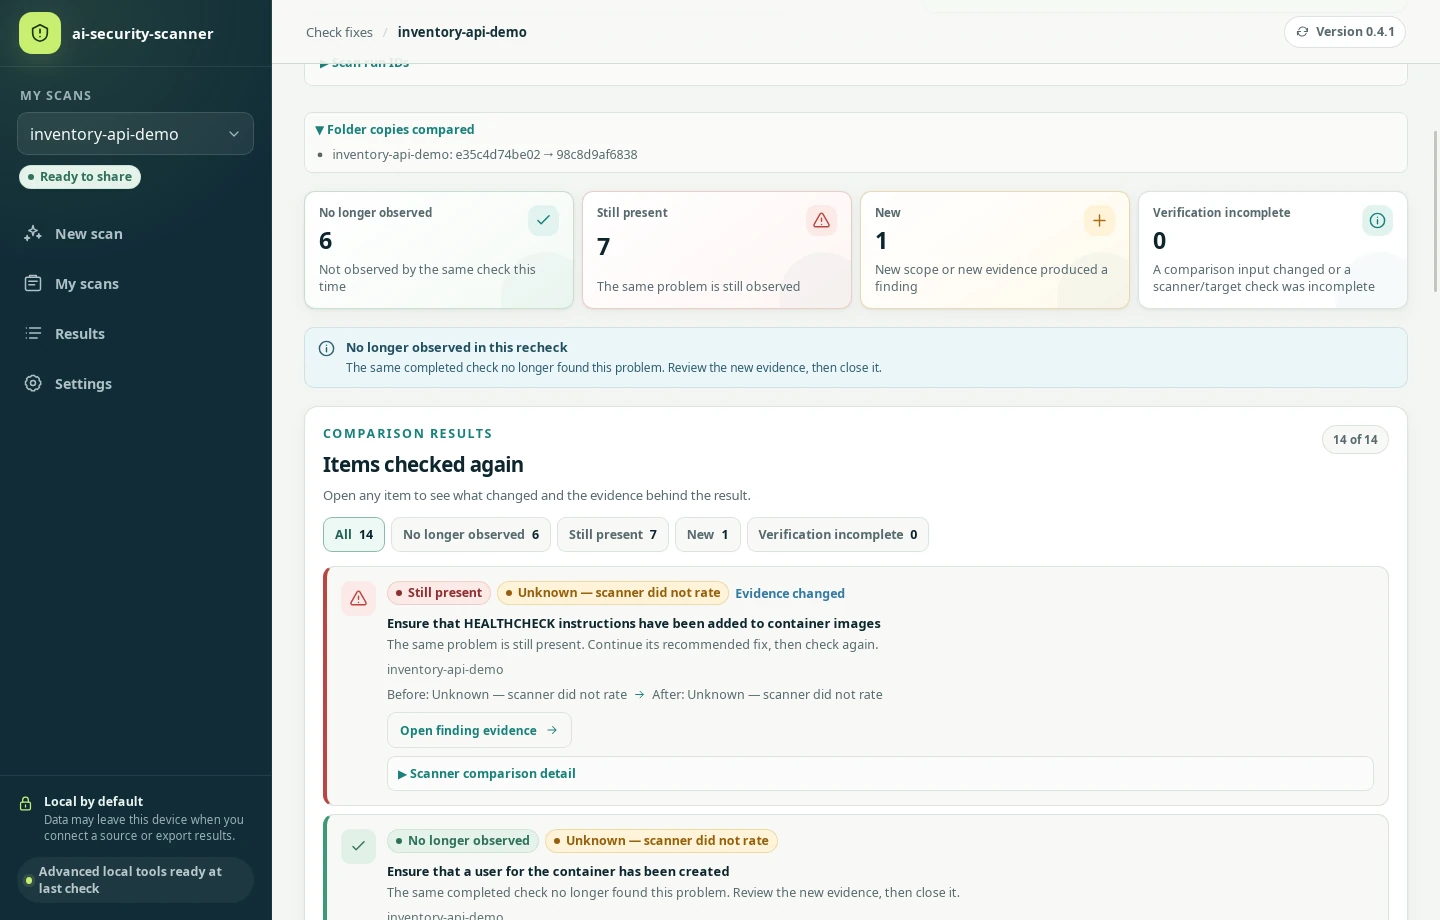
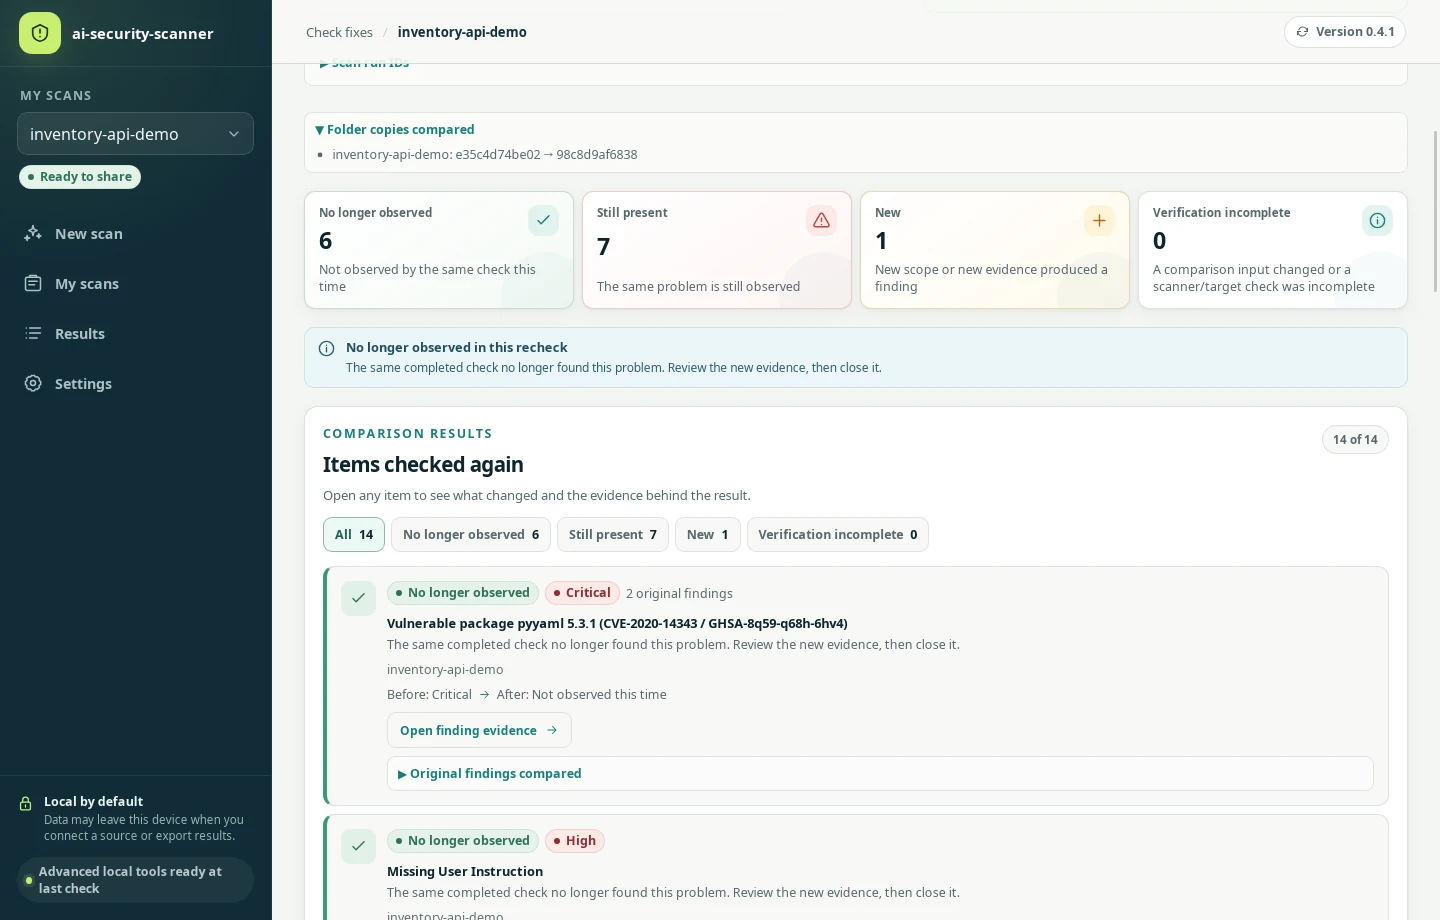
Retake the real scan example's comparison screenshots
The comparison list now follows Results order, so its first card is the
Critical pyyaml problem instead of an Unknown one. The version note,
footer and demo READMEs name dff42c2 for these two screenshots, and
SHA256SUMS.txt lists their new hashes.

Changed region(s): [[0.2188, 0.6087, 0.625, 0.8522], [0.2812, 0.8826, 0.5625, 0.9739], [0.2812, 0.8217, 0.4062, 0.8522]]

diff --git a/docs/check-fixes-demo.html b/docs/check-fixes-demo.html
@@ -61,7 +61,7 @@
           <li><strong>1</strong><span class="lang-en">New</span><span class="lang-zh" lang="zh-Hant">新出現</span></li>
           <li><strong>0</strong><span class="lang-en">Verification incomplete</span><span class="lang-zh" lang="zh-Hant">驗證未完成</span></li>
         </ul>
-        <p class="version-note"><span class="lang-en">Made with development builds after v0.4.1: the scans with commit <code>bca90a8</code>, the reports and screenshots with <code>e663b0a</code>. v0.4.1 does not have step 4, choosing the fixed folder again (it scans the copy saved when the folder was first chosen), the comparison at the top of the Scan 2 report, or problems that combine related findings: it lists every finding on its own.</span><span class="lang-zh" lang="zh-Hant">使用 v0.4.1 之後的開發版本製作：掃描使用 commit <code>bca90a8</code>，報告與截圖使用 <code>e663b0a</code>。v0.4.1 沒有第 4 步「重新選擇修正後的資料夾」（它掃描的是第一次選擇資料夾時保存的副本），沒有第 2 次掃描報告開頭的比較，也不會把相關的發現合併成一個問題，而是逐筆列出。</span></p>
+        <p class="version-note"><span class="lang-en">Made with development builds after v0.4.1: the scans with commit <code>bca90a8</code>, the comparison screenshot with <code>dff42c2</code>, and the reports and other screenshots with <code>e663b0a</code>. v0.4.1 does not have step 4, choosing the fixed folder again (it scans the copy saved when the folder was first chosen), the comparison at the top of the Scan 2 report, or problems that combine related findings: it lists every finding on its own.</span><span class="lang-zh" lang="zh-Hant">使用 v0.4.1 之後的開發版本製作：掃描使用 commit <code>bca90a8</code>，比較結果截圖使用 <code>dff42c2</code>，報告與其他截圖使用 <code>e663b0a</code>。v0.4.1 沒有第 4 步「重新選擇修正後的資料夾」（它掃描的是第一次選擇資料夾時保存的副本），沒有第 2 次掃描報告開頭的比較，也不會把相關的發現合併成一個問題，而是逐筆列出。</span></p>
       </section>
 
       <section class="section demo-step" id="project">
@@ -232,7 +232,7 @@
 
     <footer class="site-footer">
       <div class="footer-inner">
-        <p><span class="lang-en">ai-security-scanner · development builds bca90a8 and e663b0a · 2026-10-07</span><span class="lang-zh" lang="zh-Hant">ai-security-scanner · 開發版本 bca90a8 與 e663b0a · 2026-10-07</span></p>
+        <p><span class="lang-en">ai-security-scanner · development builds bca90a8, e663b0a and dff42c2 · 2026-10-07</span><span class="lang-zh" lang="zh-Hant">ai-security-scanner · 開發版本 bca90a8、e663b0a 與 dff42c2 · 2026-10-07</span></p>
         <p><a href="index.html" data-href-en="index.html" data-href-zh="index.html?lang=zh-TW"><span class="lang-en">Back to the project</span><span class="lang-zh" lang="zh-Hant">回到專案首頁</span></a></p>
       </div>
     </footer>

diff --git a/docs/demos/check-fixes/README.md b/docs/demos/check-fixes/README.md
@@ -18,7 +18,7 @@ The reports show related findings as one problem; for example, five tools' detec
 - **Scan times:** Scan 1 ran from 01:11:59 to 01:24:36 UTC, Scan 2 from 01:26:25 to 01:38:04 UTC, on October 7, 2026. The screenshots show the test computer's local time (UTC−4), the evening of October 6.
 - **Project:** a small Flask service written for this demo, with five planted problems. The fix commit removed the deploy key, switched to `yaml.safe_load`, upgraded PyYAML from 5.3.1 to 6.0.2, ran the container as a non-root user and turned on Flask debug mode on purpose. The project is not published, because it contains the planted private key. That key was created for this demo and never used anywhere.
 - **Reports:** saved with the app's HTML exporter and the `standard` redaction profile (**Hide sensitive identifiers**), using commit [`e663b0a`](https://github.com/teddashh/ai-security-scanner/commit/e663b0a). The files are unchanged exports; [SHA256SUMS.txt](SHA256SUMS.txt) lists their hashes.
-- **Screenshots:** taken from the app window, built from commit `e663b0a`, after both scans had finished; then cropped and converted to WebP. Nothing else was edited.
+- **Screenshots:** taken from the app window, built from commit `e663b0a` (the comparison screenshot from `dff42c2`), after both scans had finished; then cropped and converted to WebP. Nothing else was edited.
 
 ## Not covered
 

diff --git a/docs/demos/check-fixes/README.zh-TW.md b/docs/demos/check-fixes/README.zh-TW.md
@@ -18,7 +18,7 @@
 - **掃描時間：** 2026 年 10 月 7 日，第 1 次 01:11:59 至 01:24:36 UTC，第 2 次 01:26:25 至 01:38:04 UTC。截圖顯示的是測試電腦的當地時間（UTC−4），也就是 10 月 6 日晚上。
 - **專案：** 為這次示範寫的小型 Flask 服務，刻意放入五種問題。修正的 commit 刪除部署金鑰、改用 `yaml.safe_load`、把 PyYAML 從 5.3.1 升級到 6.0.2、讓容器以非 root 使用者執行，並刻意開啟 Flask 除錯模式。專案本身不公開，因為裡面有刻意放入的私鑰；這把金鑰為示範而產生，從未在任何地方使用。
 - **報告：** 用程式的 HTML 匯出功能與 `standard` 遮蔽設定（**遮罩敏感識別資訊**）儲存，使用 commit [`e663b0a`](https://github.com/teddashh/ai-security-scanner/commit/e663b0a)。檔案未經修改；雜湊值列在 [SHA256SUMS.txt](SHA256SUMS.txt)。
-- **截圖：** 兩次掃描都完成後，從以 commit `e663b0a` 建置的程式視窗擷取，只做裁切並轉成 WebP，沒有其他編輯。
+- **截圖：** 兩次掃描都完成後，從以 commit `e663b0a` 建置的程式視窗擷取（比較結果截圖使用 `dff42c2`），只做裁切並轉成 WebP，沒有其他編輯。
 
 ## 沒有涵蓋的部分
 
